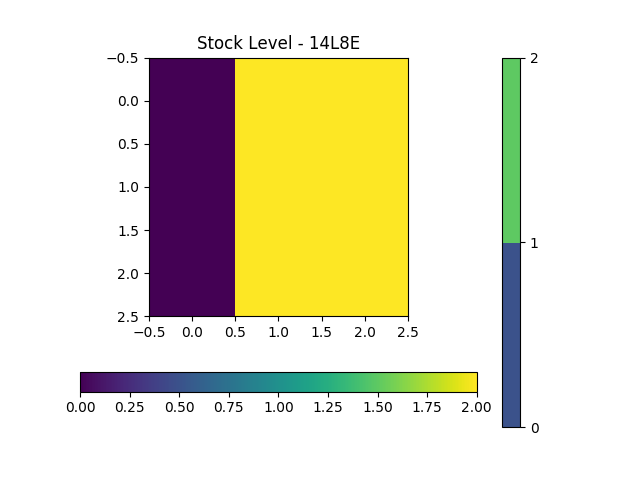
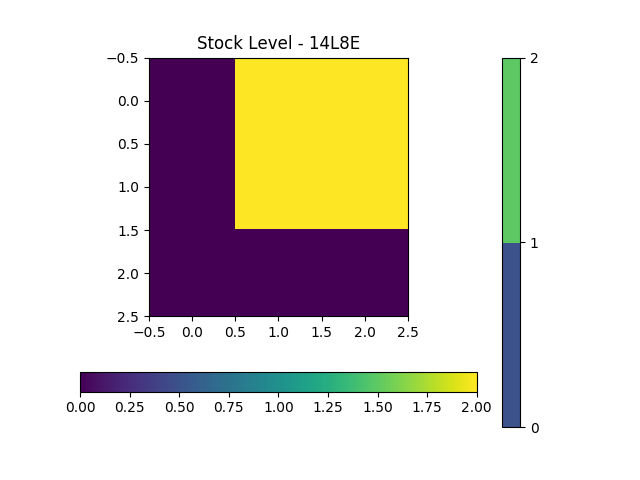
re worked api's so that it gives the number of items that can be filled

Changed region(s): [[0.3438, 0.4688, 0.6562, 0.6562]]

diff --git a/Python/mysite/personal/templates/personal/header.html b/Python/mysite/personal/templates/personal/header.html
@@ -93,7 +93,7 @@
               <div class="col-sm-10">
                   <br>
                   <center>
-                  <img src="{% static 'img/14L16E.png' %}" class="responsive-img" style='max-height:500px;' alt="face">
+                  <img src="{% static 'img/14L8E.png' %}" class="responsive-img" style='max-height:500px;' alt="face">
                   </center>
               </div>
         </div><hr>

diff --git a/Python/WebPage/API.py b/Python/WebPage/API.py
@@ -1,4 +1,7 @@
-import Calculations
+import Objects.XYGrid as XYGridObject
+import Objects.shelf as ShelfObject
+import Calculations.stockPercentage as stockpercentages
+import Measurements.MeasureUS as measureUS
 
 def startfunction():
     from flask import Flask
@@ -8,14 +11,16 @@ def startfunction():
     
     class Departmental_Salary(Resource):
         def get(self):
-#             for singleshelfpos in ShelfList:
-#                 return Calculations.stockPercentage.UnitsToFill(singleshelfpos, XYGridList)   
-            return 1
+            XYGridList = XYGridObject.MakeXYGrid()
+            ShelfList = ShelfObject.makeShelfGrid()
+            for singleshelfpos in ShelfList:
+                measureUS.MeasureDistance(singleshelfpos.location, XYGridList) 
+                a =stockpercentages.UnitsToFill(singleshelfpos.location, XYGridList)
+                print(a)
+            return a
           
     class location(Resource):
-        def get(self):
-#             for singleshelfpos in ShelfList:
-#                 return Calculations.stockPercentage.UnitsToFill(singleshelfpos, XYGridList)   
+        def get(self):   
             return 2 
  
     api.add_resource(Departmental_Salary, '/measurements/')

diff --git a/Python/mysite/personal/views.py b/Python/mysite/personal/views.py
@@ -4,5 +4,7 @@ import urllib
 
 # Create your views here.
 def index (request):
-    a = render(request,'personal/basic.html', {'content':[urllib.request.urlopen("http://127.0.0.1:5000/measurements/").read()], 'shelflocation':[urllib.request.urlopen("http://127.0.0.1:5000/shelflocation/").read()]})
+    a = render(request,'personal/basic.html', {'content':[urllib.request.urlopen("http://127.0.0.1:5000/measurements/").read()], 
+                                               'shelflocation':[urllib.request.urlopen("http://127.0.0.1:5000/shelflocation/").read()]
+                                               })
     return a

diff --git a/Python/Main/main.py b/Python/Main/main.py
@@ -13,6 +13,6 @@ for singleshelfpos in ShelfList:
     print(singleshelfpos.location)
     measureUS.MeasureDistance(singleshelfpos.location, XYGridList)    
     stockpercentages.UnitsToFill(singleshelfpos.location, XYGridList)
-#     heatmap.MakeHeatMap(stockpercentages.shelfHeight, XYGridList, singleshelfpos.location)
+    heatmap.MakeHeatMap(stockpercentages.shelfHeight, XYGridList, singleshelfpos.location)
     
 test.startfunction()

diff --git a/Python/Calculations/stockPercentage.py b/Python/Calculations/stockPercentage.py
@@ -34,6 +34,8 @@ def UnitsToFill(singleshelfpos, XYGridList):
     numunitstofill = int(availablevolume / productVolume)
     # Print
     print(numunitstofill, " Quaker Oats can go out on ", singleshelfpos)
+    
+    return numunitstofill
         
  
 def ShelfAvgVolumePercentFull (singleshelfpos, XYGridList):
